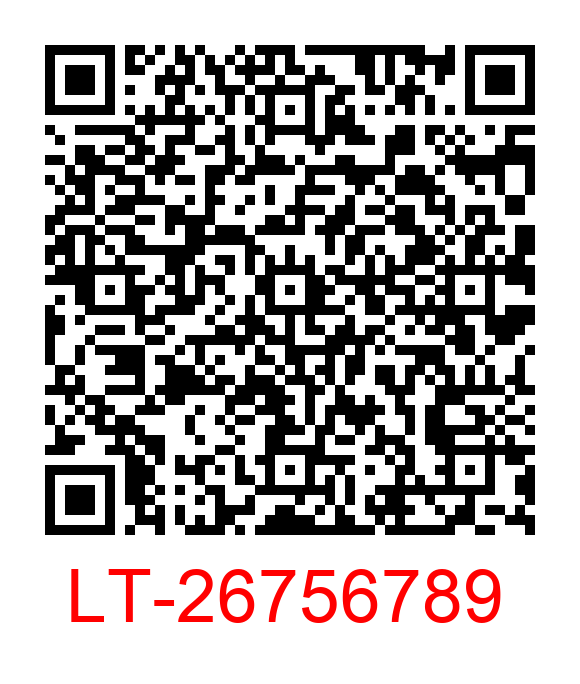
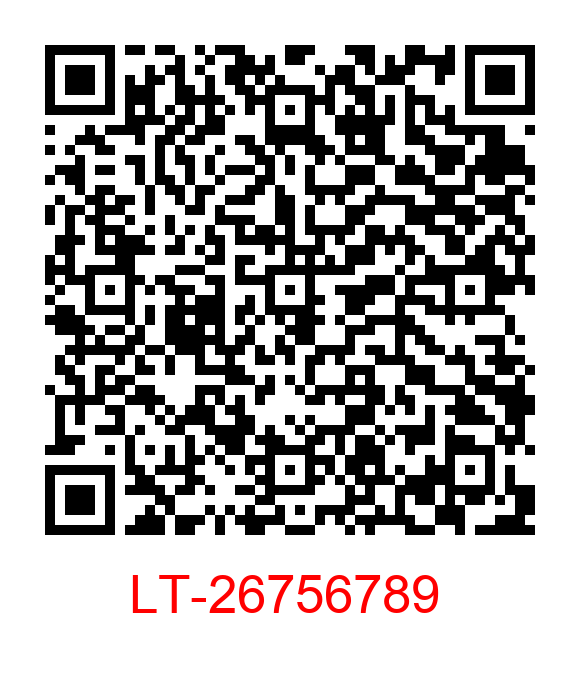
fix the font size

Changed region(s): [[0.0621, 0.0614, 0.931, 0.7982], [0.1862, 0.8289, 0.869, 0.9211], [0.1241, 0.8289, 0.1862, 0.9211]]

diff --git a/src/code/shared/qrcode_gen.py b/src/code/shared/qrcode_gen.py
@@ -7,7 +7,7 @@ def make_qrc(data, caption, boxsize, color_text='black'):
     width, height = qr.size
     bi = Image.new('RGBA', (width + 10, height + (height // 5)), 'white')
     bi.paste(qr, (5, 5, (width + 5), (height + 5)))
-    fontsize = boxsize * (110/15)
+    fontsize = boxsize * (80/15)
     Imfont = ImageFont.truetype("arial.ttf", int(fontsize))
     w, h = Imfont.getsize(caption)
     draw = ImageDraw.Draw(bi)
